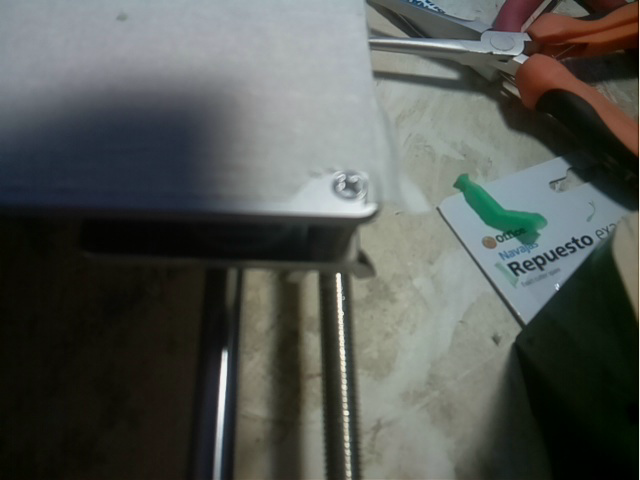
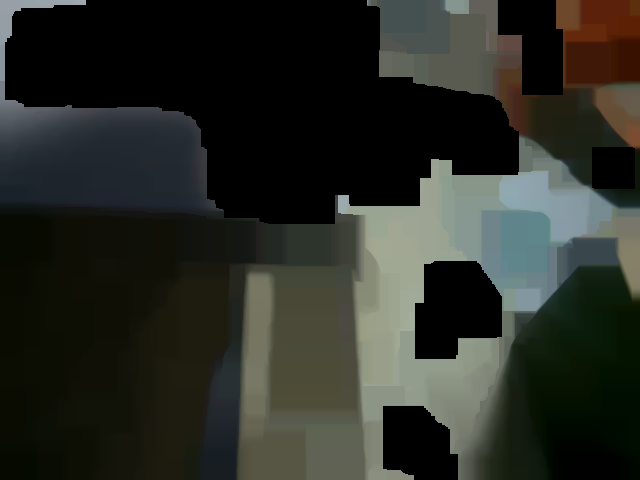
mask algorithms incorpored

diff --git a/filters.py b/filters.py
@@ -248,7 +248,7 @@ def HSV_Mask(frame,maskParam,param,ori=None):
         return frame
     else:
         hsv = cv2.cvtColor(frame, cv2.COLOR_BGR2HSV)
-        l_C,u_C=readHSV(param)
+        l_C,u_C=readHSV(param["hsv"])
         mask = cv2.inRange(hsv,l_C,u_C)
         return mask
 
@@ -272,54 +272,114 @@ def notFilter(frame,maskParam,param=None,ori=None):
         mask = cv2.bitwise_not(frame) 
         return mask
 
-def genMask(oMask,frame,maskParam,param=None):
-    geM=[HSV_Mask,notFilter,notFilter]
-    return geM[oMask](frame,maskParam,param)
+
 #masks=["AndF","OrF","XORF"]
-maskG=["GrS","hsv_mask","NotF"]
+maskG=["GrS","hsv_mask"]#,"NotF"]
 maskP=["AndF","OrF","XORF","GrS","hsv_mask","NotF"]
 def selMask(maskParam):
-    c=0
-    for m in maskG:
-        if maskParam[m]:
-            return c
-        c+=1
+    paramG=maskParam["GrS"]
+    paramH=maskParam["hsv_mask"]
+    r=False
+    mask1=notFilter
+    if paramG["on"]:
+        r=True
+        mask1=GrayScale
+        return r,mask1
+    if paramH["on"]:
+        r=True
+        mask1=HSV_Mask
+        return r,mask1
+    return r,mask1
+#processes[toWork](frame,maskParam,param,ori)
+
 def andFilter(frame,maskParam,param=None,ori=None):
     param2=maskParam["AndF"]
+    
     if param2["on"]==0:
+        
         return frame
     else:
-        s= selMask(maskParam)
-        mask=genMask(s,frame,maskParam,param=None)
-        if maskParam["WrO"]:
-            masked = cv2.bitwise_and(frame,mask)     
+        d,dM=selMask(maskParam)
+        
+        if d:
+            mask=dM(frame,maskParam,param,ori)
+            mask=notFilter(mask,maskParam,param,ori)
+                
+            if maskParam["WrO"]:
+                
+                blue, green, red = cv2.split(ori)
+                blue = cv2.bitwise_and(blue,mask)
+                green = cv2.bitwise_and(green,mask)
+                red = cv2.bitwise_and(red,mask)
+                     
+            else:
+                
+                blue, green, red = cv2.split(frame)
+                blue = cv2.bitwise_and(blue,mask)
+                green = cv2.bitwise_and(green,mask)
+                red = cv2.bitwise_and(red,mask)
+                
+            masked = cv2.merge((blue,green,red))
+            return masked
         else:
-            masked = cv2.bitwise_and(ori,mask) 
-        return masked
+            return frame
 def orFilter(frame,maskParam,param=None,ori=None):
-    param2=maskParam["AndF"]
+    param2=maskParam["OrF"]
     if param2["on"]==0:
+        
         return frame
     else:
-        s= selMask(maskParam)
-        mask=genMask(s,frame,maskParam,param=None)
-        if maskParam["WrO"]:
-            masked = cv2.bitwise_or(frame,mask)     
+        d,dM=selMask(maskParam)
+        
+        if d:
+            mask=dM(frame,maskParam,param,ori)
+            mask=notFilter(mask,maskParam,param,ori)
+            if maskParam["WrO"]:
+                
+                blue, green, red = cv2.split(ori)
+                blue = cv2.bitwise_or(blue,mask)
+                green = cv2.bitwise_or(green,mask)
+                red = cv2.bitwise_or(red,mask)
+                     
+            else:
+                
+                blue, green, red = cv2.split(frame)
+                blue = cv2.bitwise_or(blue,mask)
+                green = cv2.bitwise_or(green,mask)
+                red = cv2.bitwise_or(red,mask)
+                
+            masked = cv2.merge((blue,green,red))
+            return masked
         else:
-            masked = cv2.bitwise_or(ori,mask) 
-        return masked
+            return frame
 def xorFilter(frame,maskParam,param=None,ori=None):
-    param2=maskParam["AndF"]
+    param2=maskParam["XORF"]
     if param2["on"]==0:
+        
         return frame
     else:
-        s= selMask(maskParam)
-        mask=genMask(s,frame,maskParam,param=None)
-        if maskParam["WrO"]:
-            masked = cv2.bitwise_or(frame,mask)     
+        d,dM=selMask(maskParam)
+        
+        if d:
+            mask=dM(frame,maskParam,param,ori)
+            mask=notFilter(mask,maskParam,param,ori)
+                
+            if maskParam["WrO"]:
+                blue, green, red = cv2.split(frame)
+                blue = cv2.bitwise_xor(blue,mask)
+                green = cv2.bitwise_xor(green,mask)
+                red = cv2.bitwise_xor(red,mask)
+                     
+            else:
+                blue, green, red = cv2.split(ori)
+                blue = cv2.bitwise_xor(blue,mask)
+                green = cv2.bitwise_xor(green,mask)
+                red = cv2.bitwise_xor(red,mask)
+                
+            masked = cv2.merge((blue,green,red))
+            return masked
         else:
-            masked = cv2.bitwise_or(ori,mask) 
-        return masked
+            return frame
 
 
 ####################################
@@ -336,17 +396,15 @@ processes={
     "hsv_mask":HSV_Mask,"AndF":andFilter,
     "NotF":notFilter,"OrF":orFilter,"XORF":xorFilter}
 def ordProcess(toWork,frame,param,ori=None,maskParam=None):
-    #print(toWork)
-    #print(param)
     if toWork in maskP:
-        #sendParam=param[toWork]
-
-        #print("caso mascara")
+        #cv2.imshow("PreFilter", frame)
+        #cv2.imshow("Origi", ori)
         return processes[toWork](frame,maskParam,param,ori)
     if toWork=="Show":
         return frame
     sendParam=param[toWork]
     return processes[toWork](frame,sendParam)
+
 def filfromConf(confi,modi):
     ori=modi.copy()
     for step in confi:

diff --git a/calibrate.py b/calibrate.py
@@ -80,7 +80,6 @@ cv2.createTrackbar("Speed", "Video", playSpeed,100,setSpeed)
 defaultOrd=[
     "Mean","Gaus","Bil","Ero","Dil","Ope",
     "Clos","Grad","Lap","SoX","SoY","hsv"]
-defaultOrd2=["hsv_mask","GrS","NotF","AndF","OrF","XORF"]
 def noLoad(frame,params):
     c=0
     for i in defaultOrd:
@@ -90,15 +89,29 @@ def noLoad(frame,params):
         else:
             modi=filters.ordProcess(i,modi,params)
     return modi
-
+defaultOrd2=["hsv_mask","GrS","NotF","AndF","OrF","XORF"]
 def noLoad2(frame,params,ori,maskParams):
-    c=0
+    spec=False
     for i in defaultOrd2:
-        if c==0:
-            c+=1
-            modi=filters.ordProcess(i,frame,params,ori,maskParams)
-        else:
-            modi=filters.ordProcess(i,modi,params,ori,maskParams)
+        ind=defaultOrd2.index(i) 
+        if(maskParams[i]["on"] and ind>2):
+            #print(maskParams[i])
+            #print("spec")
+            #print(maskParams[i])
+            spec=True
+            break
+    if spec:
+        return filters.ordProcess(defaultOrd2[ind],frame,param,ori,maskParams)
+    else:
+        ind=0
+        modi=frame
+        for i in defaultOrd2:
+            #print("not spec")
+            #print(i)
+            modi=filters.ordProcess(i,modi,param,ori,maskParams)
+            if ind>2:
+                break
+            ind+=1
     return modi
 
 con=True
@@ -146,14 +159,9 @@ while 1:
     if key == ord('q'):
         cv2.destroyAllWindows()
         #cv2.destroyWindow("shown_img")
-        sav=input("Do you want to save this configuration? \n Yes (1) No(0) :")
+        sav=int(input("Do you want to save this configuration? \n Yes (1) No(0) :"))
         if sav:
             pic,dat=navFil.incName()
             cv2.imwrite(pic,modi)
-        
             navFil.saveData(dat,getUsed(param),filter_ord)
-            print(param)
-            print(param2)
-        #usedNames=navFil.getFilesbyType('.png','FilterOp')
-        
         break
